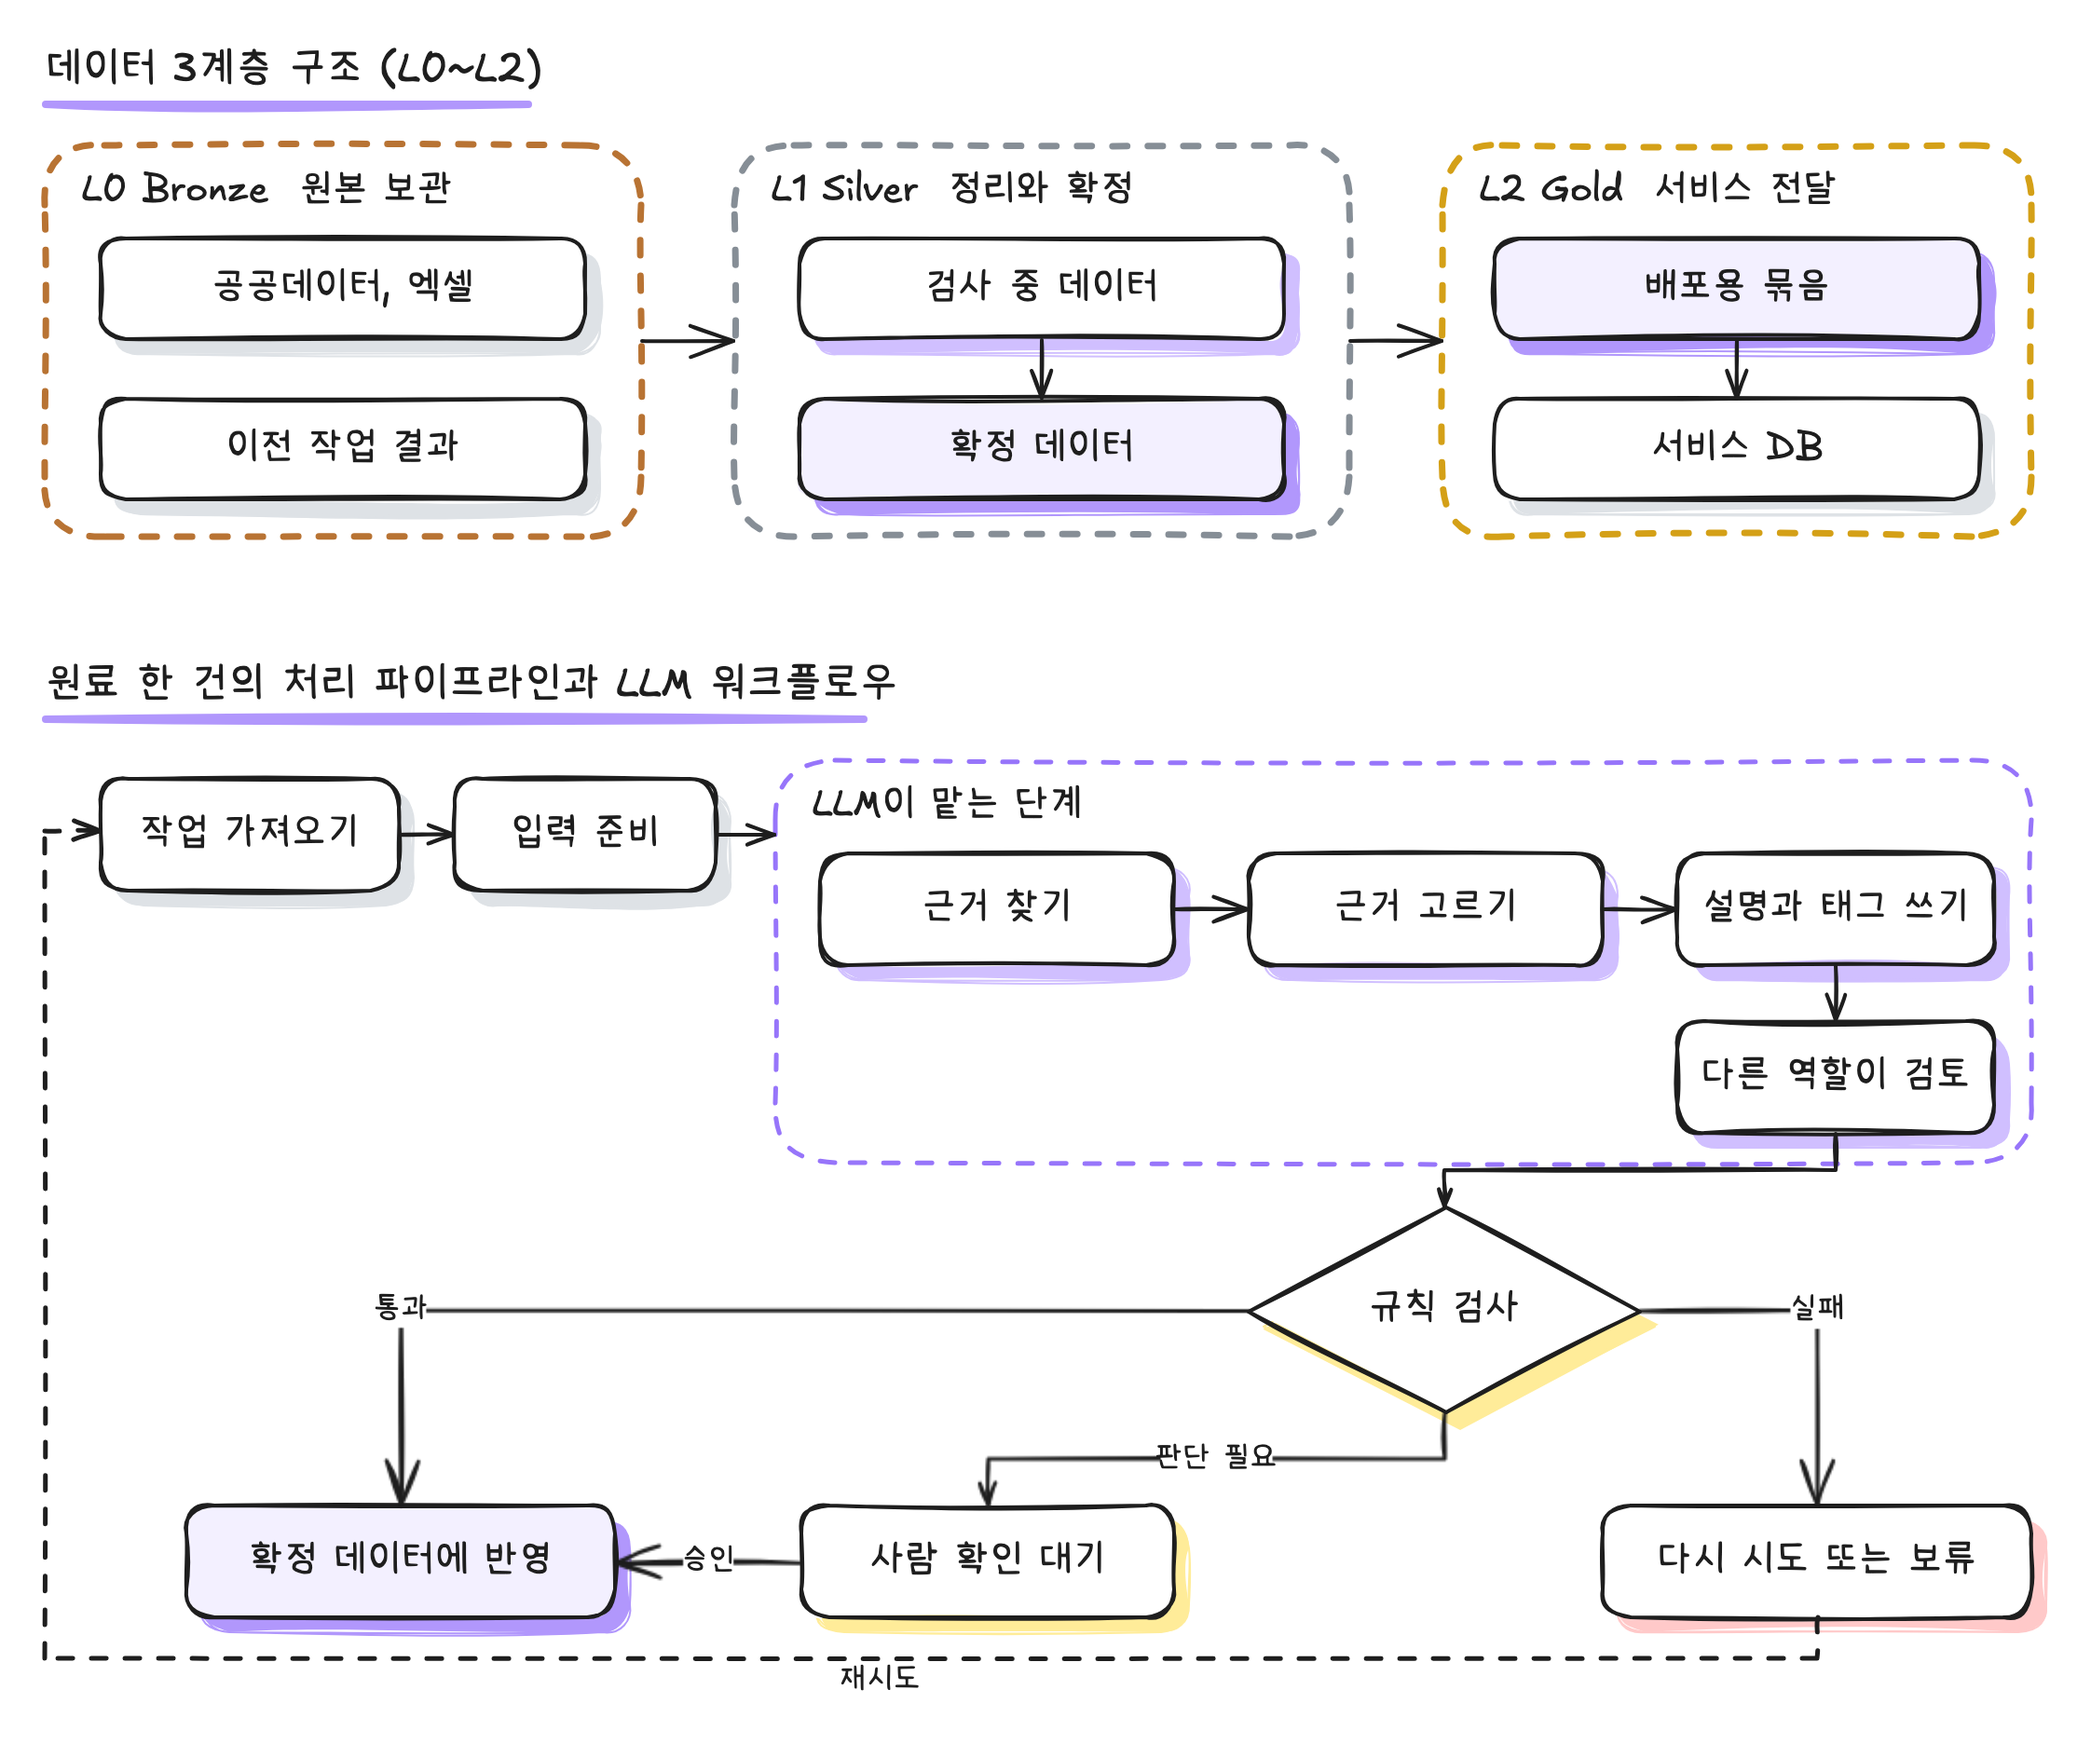
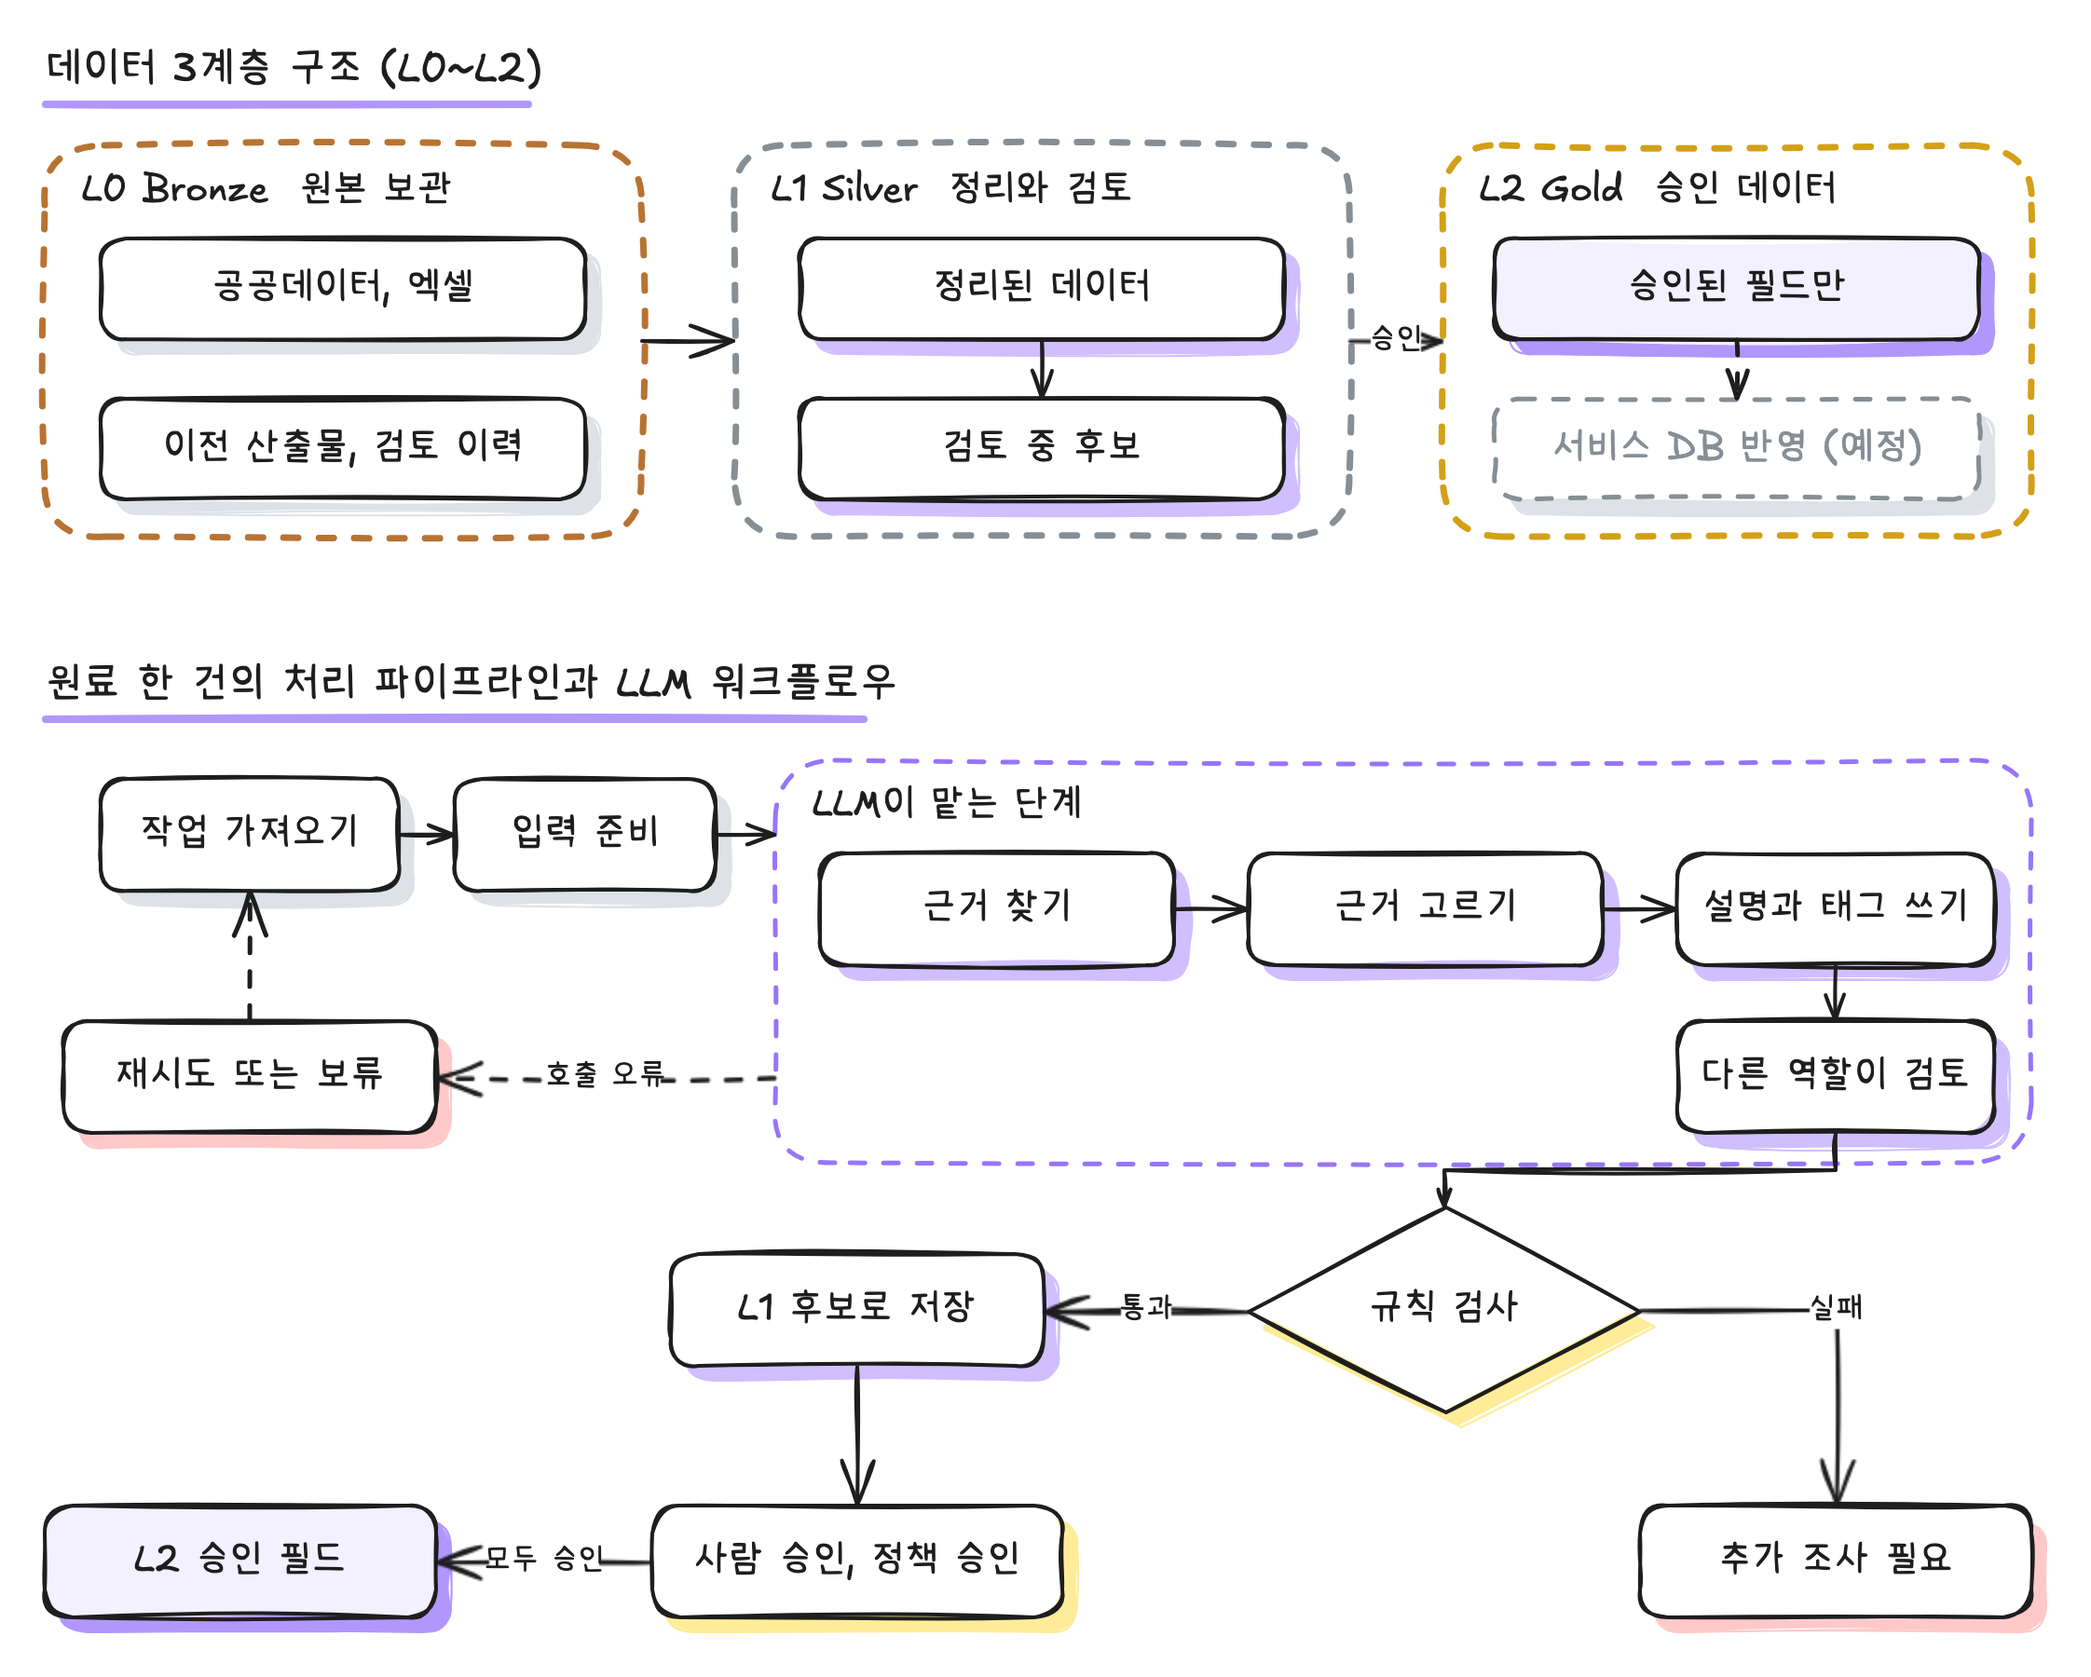
portfolio: 사례 02 계층 정의와 실패 경로를 실제 구현에 맞게 수정

diff --git a/index.html b/index.html
@@ -92,10 +92,10 @@
 <article class="case" id="case-data-pipeline" aria-labelledby="case-title-2">
   <div class="case-top"><span class="case-no">02</span><span class="proj">Poudy</span><span class="case-context">데이터 파이프라인 / 2026.08 – 현재</span></div>
   <h3 id="case-title-2">LLM 판단과 코드 검증을 분리한 3계층 성분 데이터 파이프라인 구축</h3>
-  <p class="case-deck">성분 데이터를 처리 단계별 3계층(L0 원본 보관, L1 정리와 확정, L2 서비스 전달)으로 나누고, 답이 정해진 검증은 코드가, 판단이 필요한 작업만 LLM이 맡도록 역할을 나눴습니다.</p>
+  <p class="case-deck">성분 데이터를 처리 단계별 3계층(L0 원본 보관, L1 정리와 검토, L2 승인 데이터)으로 나누고, 답이 정해진 검증은 코드가, 판단이 필요한 작업만 LLM이 맡도록 역할을 나눴습니다.</p>
   <figure>
-    <div class="figure-heading"><p class="figure-title">데이터 3계층 구조와 원료 한 건의 처리 흐름</p><a href="assets/diagrams/data-hub-layers.png?v=e1845fb2" data-diagram aria-label="데이터 3계층 구조와 원료 한 건의 처리 흐름 크게 보기">크게 보기 ↗</a></div>
-    <a class="diagram-link" href="assets/diagrams/data-hub-layers.png?v=e1845fb2" data-diagram aria-label="데이터 3계층 구조와 원료 한 건의 처리 흐름 이미지 확대"><img class="diagram-image" src="assets/diagrams/data-hub-layers.png?v=e1845fb2" width="2244" height="1872" alt="데이터를 L0 원본 보관, L1 정리와 확정, L2 서비스 전달 세 계층으로 나눈다. 원료 한 건은 작업을 가져와 입력을 준비한 뒤 LLM이 근거 찾기, 근거 고르기, 설명과 태그 쓰기, 다른 역할의 검토를 거치고, 규칙 검사 결과에 따라 확정 데이터 반영, 사람 확인 대기, 재시도나 보류로 나뉜다" loading="lazy" decoding="async"></a>
+    <div class="figure-heading"><p class="figure-title">데이터 3계층 구조와 원료 한 건의 처리 흐름</p><a href="assets/diagrams/data-hub-layers.png?v=fca0c334" data-diagram aria-label="데이터 3계층 구조와 원료 한 건의 처리 흐름 크게 보기">크게 보기 ↗</a></div>
+    <a class="diagram-link" href="assets/diagrams/data-hub-layers.png?v=fca0c334" data-diagram aria-label="데이터 3계층 구조와 원료 한 건의 처리 흐름 이미지 확대"><img class="diagram-image" src="assets/diagrams/data-hub-layers.png?v=fca0c334" width="2244" height="1800" alt="데이터는 L0 원본 보관, L1 정리와 검토, L2 승인 데이터 세 계층으로 나뉘고, L2에는 승인된 필드만 올라가며 서비스 DB 반영은 예정이다. 원료 한 건은 작업을 가져와 입력을 준비한 뒤 LLM이 근거 찾기, 근거 고르기, 설명과 태그 쓰기, 다른 역할의 검토를 거친다. 호출 오류는 재시도하거나 보류한다. 규칙 검사를 통과하면 L1 후보로 저장되고 사람 승인과 정책 승인을 모두 받으면 L2 승인 필드가 되며, 실패하면 추가 조사로 넘어간다" loading="lazy" decoding="async"></a>
   </figure>
   <div class="psr">
     <div>
@@ -109,7 +109,7 @@
     <div>
       <p class="label">해결 과정</p>
       <ul>
-        <li>데이터를 세 계층으로 나눴습니다. 받은 원본은 고치지 않고 보관하고, 다음 단계에서 형식을 맞추고 중복과 충돌을 확인한 뒤 승인된 값만 확정합니다. 마지막 단계에서 서비스 스키마에 맞게 묶습니다. 메달리온 구조를 우리 데이터에 맞게 바꿔 적용했습니다.</li>
+        <li>데이터를 세 계층으로 나눴습니다. 받은 원본은 고치지 않고 L0에 보관합니다. L1에는 형식을 맞추고 중복과 충돌을 확인한 데이터를 검토 중인 후보로 둡니다. 필드마다 사람 승인과 정책 승인을 모두 통과한 값만 L2로 올립니다. 메달리온 구조를 우리 데이터에 맞게 바꿔 적용했습니다.</li>
         <li>단계마다 누가 처리할지 정했습니다. 파일 읽기, 형식 정리, 중복 검사, 배포용 묶음 만들기처럼 답이 정해진 일은 Python 코드가 합니다. 근거 찾기, 설명 쓰기, 검토처럼 판단이 필요한 일만 LLM에게 맡겼습니다.</li>
         <li>LLM 단계는 LangGraph로 묶어 찾기, 고르기, 쓰기, 검토 순서로 흐르게 했습니다. 사람 확인이 필요하면 멈췄다가, 확인한 뒤 같은 자리에서 이어갑니다.</li>
         <li>작업 순서와 재시도는 SQLite로 관리합니다. 시간 초과처럼 다시 하면 풀리는 실패는 잠시 뒤 재시도하고, 다시 물어도 같은 답이 나올 실패는 보류로 돌린 뒤 다음 원료를 처리합니다.</li>
@@ -122,7 +122,7 @@
         <li>원본 파일, 원료 22,013건, 태그 코드 98종을 기록해 <b>값이 어디서 왔는지</b> 되짚을 수 있게 함</li>
         <li>이미 성공한 AI 호출은 결과를 다시 쓰고, <b>같은 실패는 반복해서 호출하지 않음</b></li>
         <li>작업 기록을 처음부터 두 번 다시 적용해 <b>같은 상태가 나오는지</b> 확인</li>
-        <li>확인 범위는 구조 검증과 원료 100건 시험 실행까지이며, 전체 처리는 진행 중입니다</li>
+        <li>확인 범위는 구조 검증과 원료 100건 시험 실행까지이며, 전체 처리는 진행 중입니다. L2 데이터를 서비스 DB로 보내는 단계는 아직 만들지 않았습니다</li>
       </ul>
     </div>
   </div>

diff --git a/scripts/excalidraw/data-hub-layers.py b/scripts/excalidraw/data-hub-layers.py
@@ -5,10 +5,11 @@ def cam(x,y,w,h): E.append({"type":"cameraUpdate","x":x,"y":y,"width":w,"height"
 def text(i,x,y,t,fs=22): E.append({"type":"text","id":i,"x":x,"y":y,"text":t,"fontSize":fs,"strokeColor":INK})
 def uline(i,x,y,w,c): E.append({"type":"arrow","id":i,"x":x,"y":y,"width":w,"height":0,"points":[[0,0],[w,0]],"strokeColor":c,"strokeWidth":4,"endArrowhead":None})
 def frame(i,x,y,w,h,c="#868e96",sw=2): E.append({"type":"rectangle","id":i,"x":x,"y":y,"width":w,"height":h,"strokeColor":c,"strokeWidth":sw,"strokeStyle":"dashed","roundness":{"type":3}})
-def box(i,x,y,w,h,label,shadow,fill='#ffffff',shape='rectangle'):
+def box(i,x,y,w,h,label,shadow,fill='#ffffff',shape='rectangle',dashed=False):
     s={"type":shape,"id":i+"s","x":x+8,"y":y+8,"width":w,"height":h,"backgroundColor":shadow,"fillStyle":"solid","strokeColor":shadow,"strokeWidth":1}
     b={"type":shape,"id":i,"x":x,"y":y,"width":w,"height":h,"backgroundColor":fill,"fillStyle":"solid","strokeColor":INK,"strokeWidth":2,"label":{"text":label,"fontSize":20}}
     if shape=='rectangle': s["roundness"]=b["roundness"]={"type":3}
+    if dashed: b["strokeStyle"]="dashed"; b["strokeColor"]="#868e96"
     E.extend([s,b])
 def arrow(i,x,y,pts,a=None,f1=None,b=None,f2=None,dashed=False,label=None):
     d={"type":"arrow","id":i,"x":x,"y":y,"width":pts[-1][0],"height":pts[-1][1],"points":pts,"strokeColor":INK,"strokeWidth":2,"endArrowhead":"arrow"}
@@ -21,15 +22,15 @@ cam(-40,-10,1200,900)
 # top: layers
 text('tt',44,36,'데이터 3계층 구조 (L0~L2)'); uline('ut',44,68,260,LAV2)
 frame('l0',44,90,320,210,"#b87333",3); text('l0t',64,102,'L0 Bronze  원본 보관',20)
-box('o1',74,140,260,54,'공공데이터, 엑셀',GRAY); box('o2',74,226,260,54,'이전 작업 결과',GRAY)
+box('o1',74,140,260,54,'공공데이터, 엑셀',GRAY); box('o2',74,226,260,54,'이전 산출물, 검토 이력',GRAY)
 arrow('ab1',364,195,[[0,0],[50,0]])
-frame('l1',414,90,330,210,"#868e96",3); text('l1t',434,102,'L1 Silver  정리와 확정',20)
-box('c1',449,140,260,54,'검사 중 데이터',LAV); box('c2',449,226,260,54,'확정 데이터',LAV2,LAVF)
+frame('l1',414,90,330,210,"#868e96",3); text('l1t',434,102,'L1 Silver  정리와 검토',20)
+box('c1',449,140,260,54,'정리된 데이터',LAV); box('c2',449,226,260,54,'검토 중 후보',LAV)
 arrow('ac',579,194,[[0,0],[0,32]],'c1',[0.5,1],'c2',[0.5,0])
-arrow('ab2',744,195,[[0,0],[50,0]])
-frame('l2',794,90,316,210,"#d4a017",3); text('l2t',814,102,'L2 Gold  서비스 전달',20)
-box('g1',822,140,260,54,'배포용 묶음',LAV2,LAVF); box('g2',822,226,260,54,'서비스 DB',GRAY)
-arrow('ag',952,194,[[0,0],[0,32]],'g1',[0.5,1],'g2',[0.5,0])
+arrow('ab2',744,195,[[0,0],[50,0]],label='승인')
+frame('l2',794,90,316,210,"#d4a017",3); text('l2t',814,102,'L2 Gold  승인 데이터',20)
+box('g1',822,140,260,54,'승인된 필드만',LAV2,LAVF); box('g2',822,226,260,54,'서비스 DB 반영 (예정)',GRAY,dashed=True)
+arrow('ag',952,194,[[0,0],[0,32]],'g1',[0.5,1],'g2',[0.5,0],dashed=True)
 # bottom: one item flow
 text('tb',44,366,'원료 한 건의 처리 파이프라인과 LLM 워크플로우'); uline('ubl',44,398,440,LAV2)
 box('w1',74,430,160,60,'작업 가져오기',GRAY)
@@ -46,14 +47,16 @@ box('m4',920,560,170,60,'다른 역할이 검토',LAV)
 arrow('am3',1005,530,[[0,0],[0,30]])
 box('d1',690,660,210,110,'규칙 검사',YEL,shape='diamond')
 arrow('ad0',1005,620,[[0,0],[0,20],[-210,20],[-210,40]])
-box('r1',120,820,230,60,'확정 데이터에 반영',LAV2,LAVF)
-box('r2',450,820,200,60,'사람 확인 대기',YEL)
-box('r3',880,820,230,60,'다시 시도 또는 보류',PINK)
-arrow('ar1',690,715,[[0,0],[-455,0],[-455,105]],label='통과')
-arrow('ar2',795,770,[[0,0],[0,25],[-245,25],[-245,50]],label='판단 필요')
-arrow('ar3',900,715,[[0,0],[95,0],[95,105]],label='실패')
-arrow('ar4',450,850,[[0,0],[-100,0]],label='승인')
-arrow('ar5',995,880,[[0,0],[0,22],[-951,22],[-951,-422],[-921,-422]],dashed=True)
-text('rt',470,904,'재시도',16)
+box('r1',380,685,200,60,'L1 후보로 저장',LAV)
+arrow('ar1',690,715,[[0,0],[-110,0]],label='통과')
+box('r2',370,820,220,60,'사람 승인, 정책 승인',YEL)
+arrow('ar2',480,745,[[0,0],[0,75]])
+box('r3',44,820,210,60,'L2 승인 필드',LAV2,LAVF)
+arrow('ar3',370,850,[[0,0],[-116,0]],label='모두 승인')
+box('r4',900,820,210,60,'추가 조사 필요',PINK)
+arrow('ar4',900,715,[[0,0],[105,0],[105,105]],label='실패')
+box('r5',54,560,200,60,'재시도 또는 보류',PINK)
+arrow('ar5',436,590,[[0,0],[-182,0]],dashed=True,label='호출 오류')
+arrow('ar6',154,560,[[0,0],[0,-70]],dashed=True)
 cam(-40,-10,1200,900)
 print(json.dumps(E,ensure_ascii=False,separators=(',',':')))
